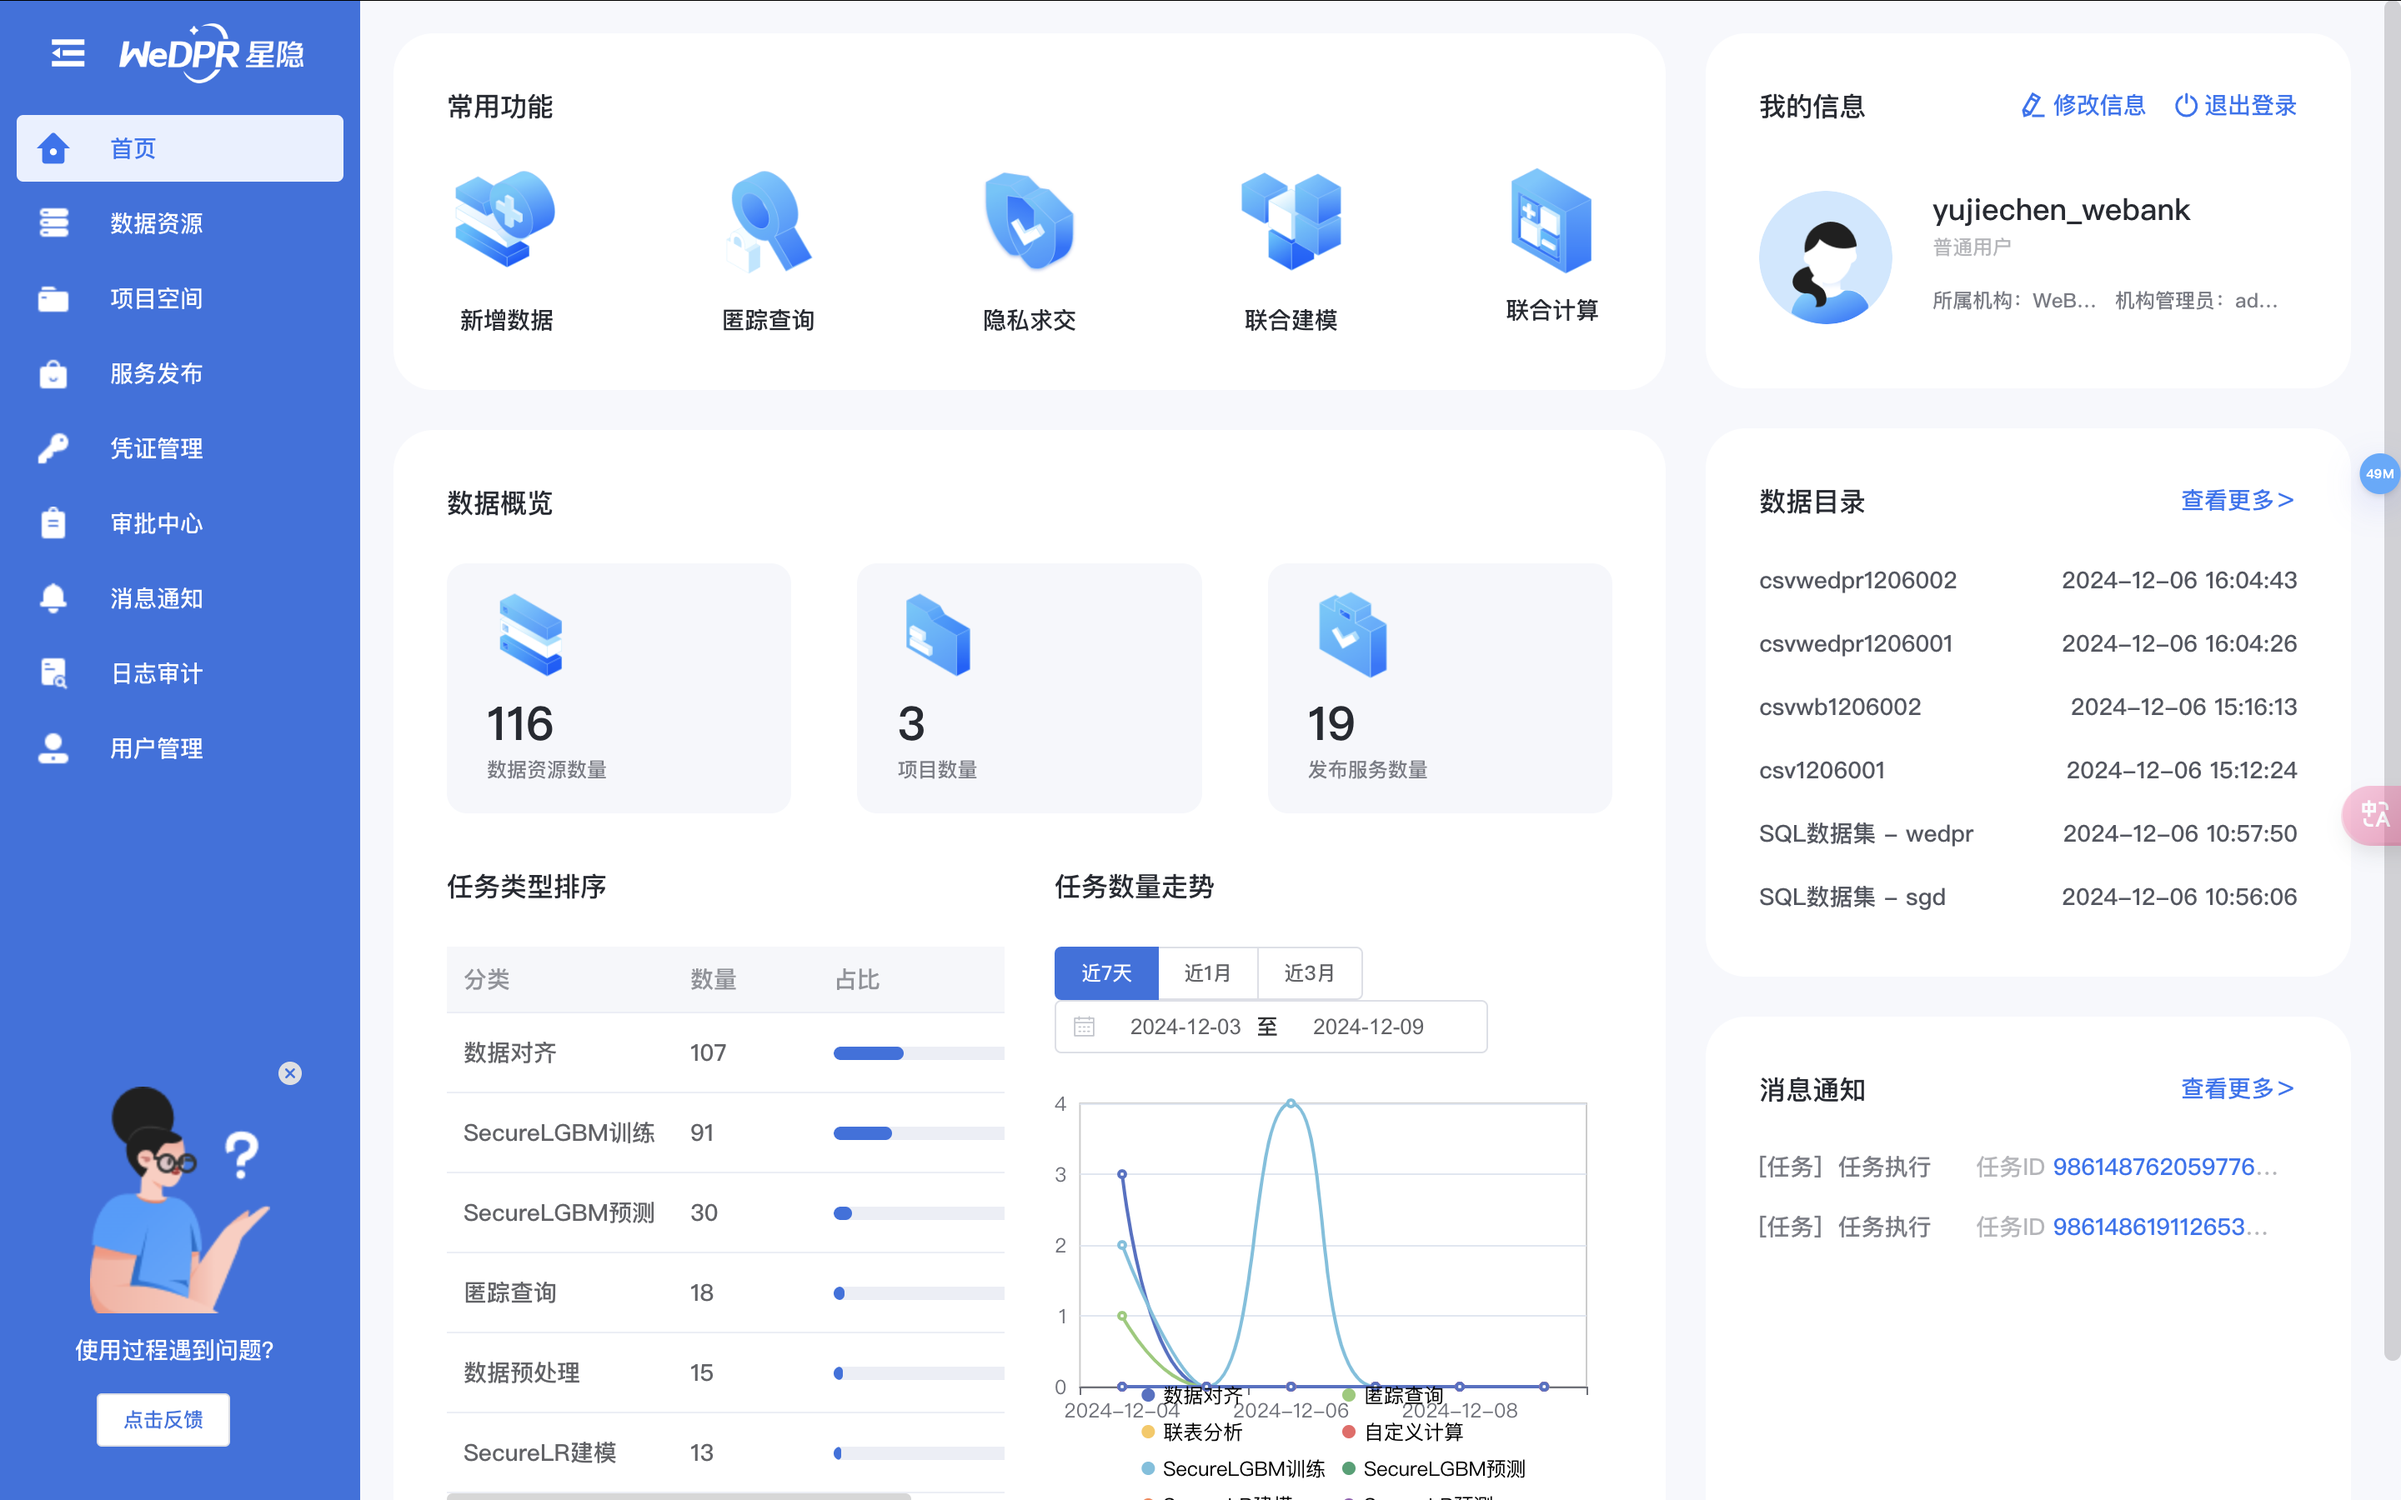
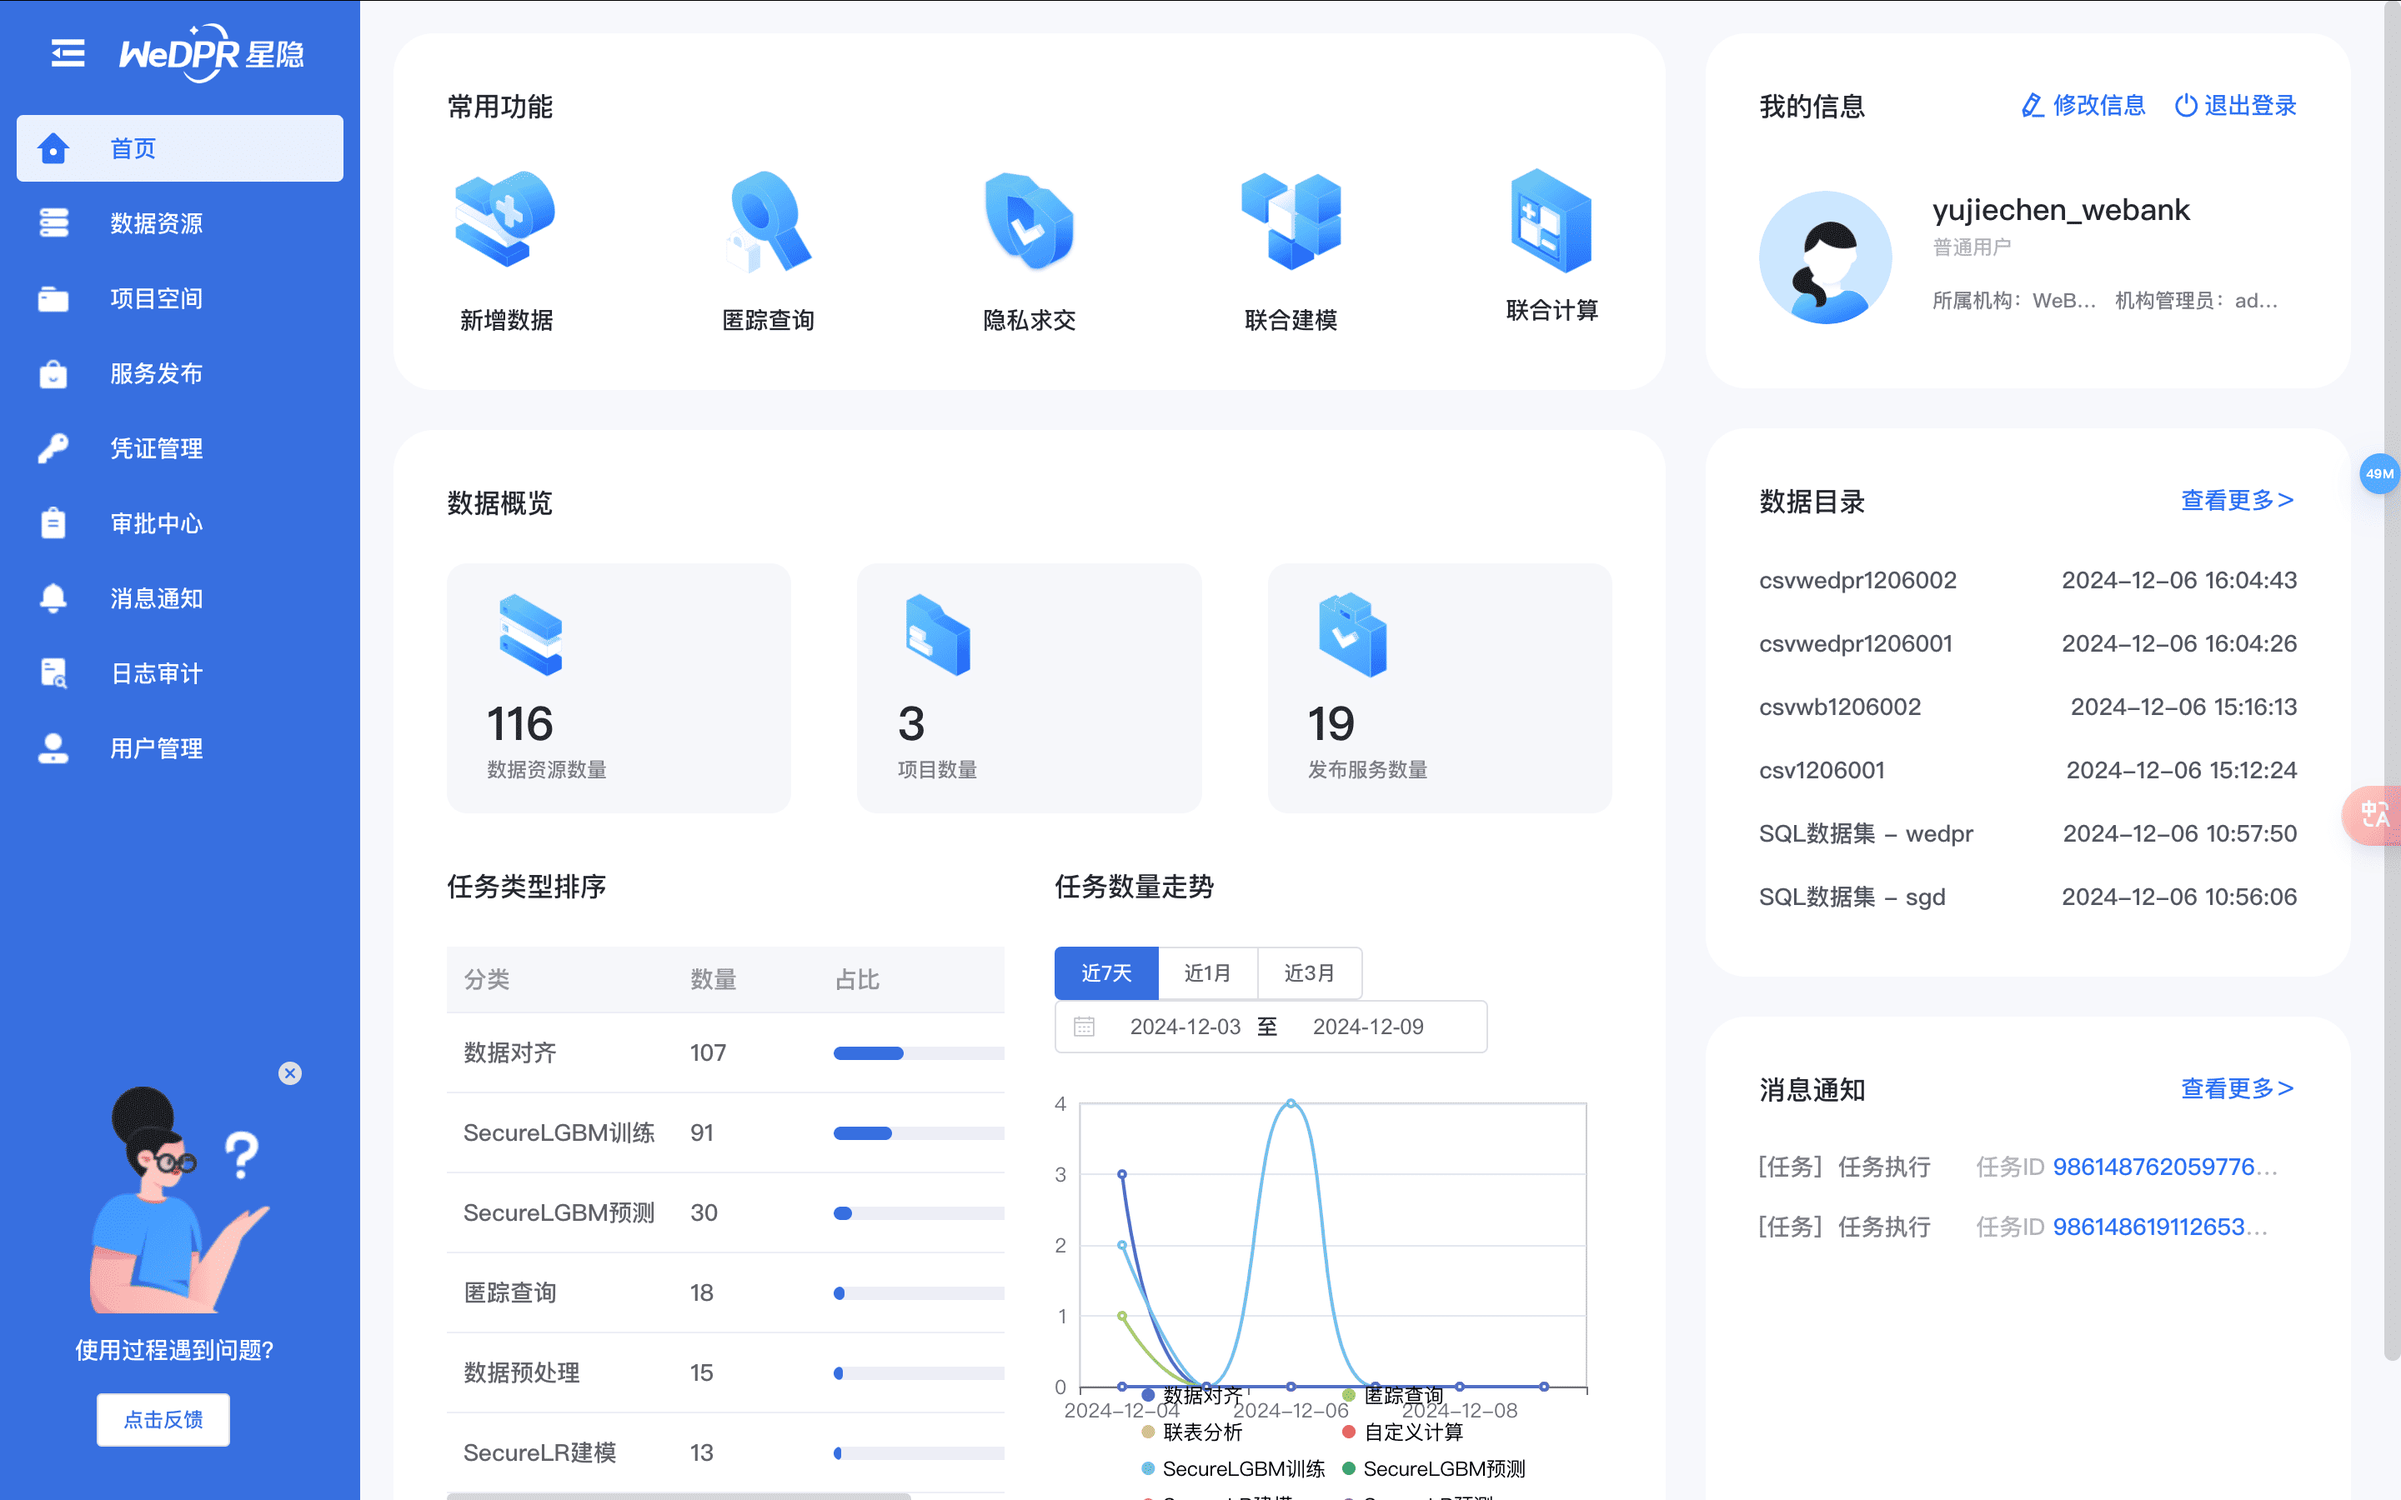
add project_op

diff --git a/zh_CN/docs/manual/project_op.md b/zh_CN/docs/manual/project_op.md
@@ -1,2 +1,40 @@
 # 3. 项目空间操作指引
 
+标签: ``项目空间`` ``操作指南``
+
+----
+
+WeDPR中，每个用户可创建多个项目空间，用户仅可见自己创建的项目，项目空间不可共享给其他用户使用。如下图，项目空间主要提供了创建项目、查询项目和删除项目的功能：
+
+![](../../images/manual/introduction/project/project.png)
+
+## 3.1 创建项目
+
+- 用户登录WeDPR管理平台，单击左侧导航栏中的【项目空间】进入到项目列表页面。单击右上角的【+新建项目】按钮创建项目。
+- 在【新增项目】的页面填写具体参数，具体如下：
+
+| **参数名称** |      **参数说明**       |
+|:--------:|:-------------------:|
+|   项目名称   | 必填，项目名称，可与已有的项目名称重复 |
+|   项目简介   |       必填，项目简介       |
+
+
+
+## 3.2 查询项目
+
+- 用户登录WeDPR管理平台，单击左侧导航栏中的【项目空间】进入到项目列表页面
+- 在【项目空间】上方的筛选框输入查询条件，支持的查询条件包括：
+
+| **查询条件** |        **说明**        |
+|:--------:|:--------------------:|
+|   项目名称   |       根据项目名称查询       |
+|   项目ID   |       根据项目ID查询       |
+|   创建时间   | 根据创建时间查询，需填入查询的起止时间段 |
+
+
+## 3.3 删除项目
+
+- 用户登录WeDPR管理平台，单击左侧导航栏中的【项目空间】进入到项目列表页面。单击左侧的【批量删除】按钮，选中要删除的项目，单击左侧的【确认删除】按钮，删除选中的项目。
+
+
+

diff --git a/zh_CN/docs/manual/interface_ui.md b/zh_CN/docs/manual/interface_ui.md
@@ -1,5 +1,9 @@
 # 1. WeDPR产品概述
 
+标签: ``产品概述`` ``操作指南``
+
+----
+
 本章对WeDPR隐私计算平台的重要功能的使用方法和限制进行详细介绍。 当用户在某个功能模块遇到问题时，可以在用户指南对应的模块章节中寻求解决方法。下面对各模块指南的主要内容进行介绍。
 
 **主界面预览**

diff --git a/zh_CN/docs/manual/expert_mode_op.md b/zh_CN/docs/manual/expert_mode_op.md
@@ -1,1 +1,2 @@
 # 5. 发起任务操作指引(专家模式模式)
+ 
